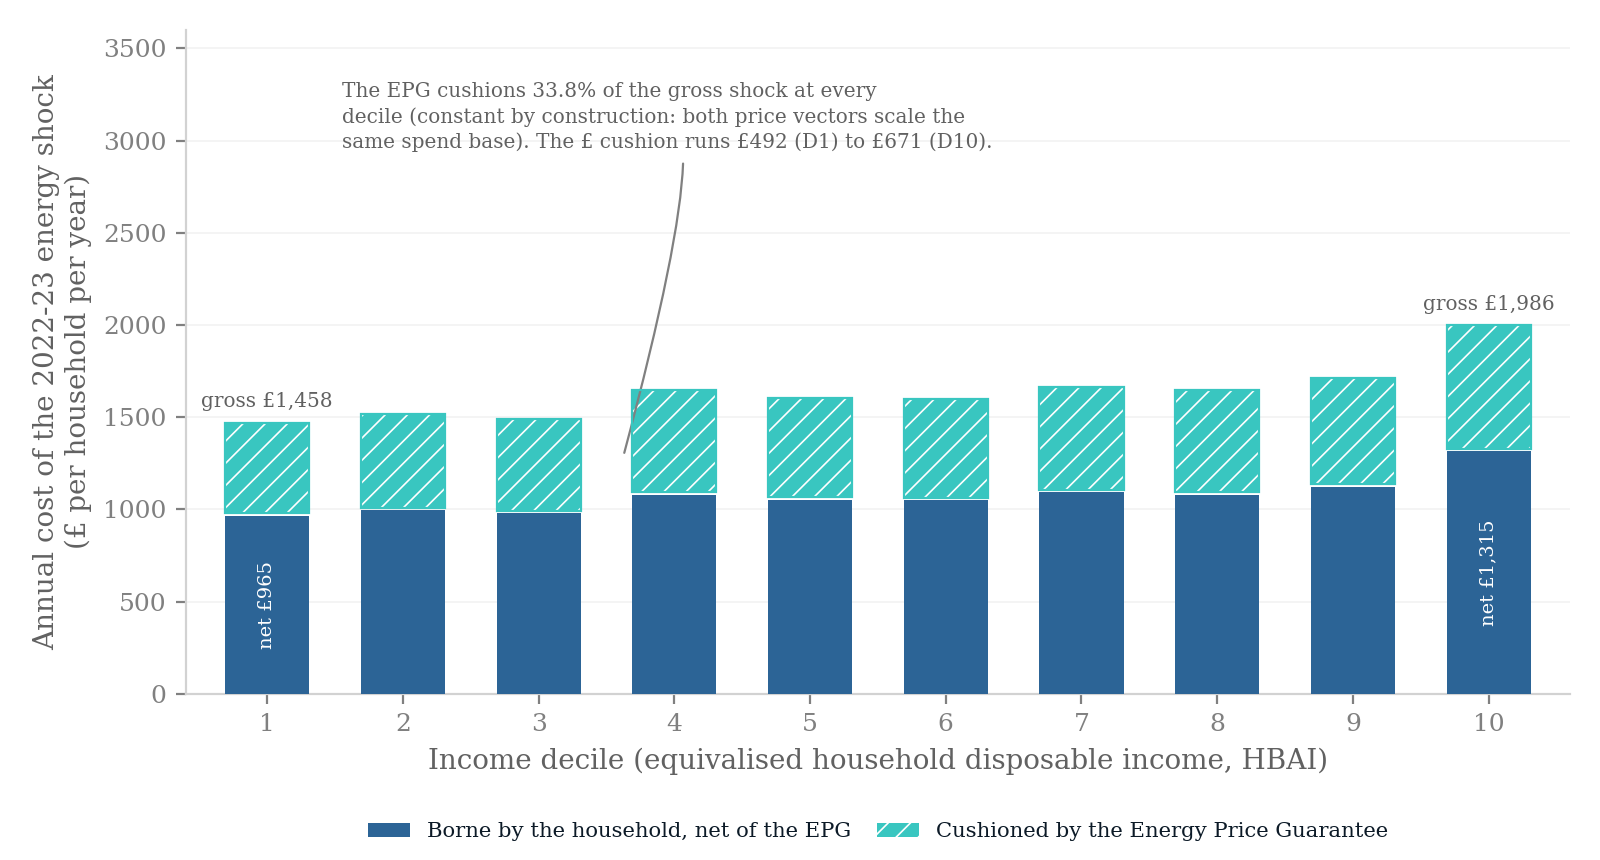
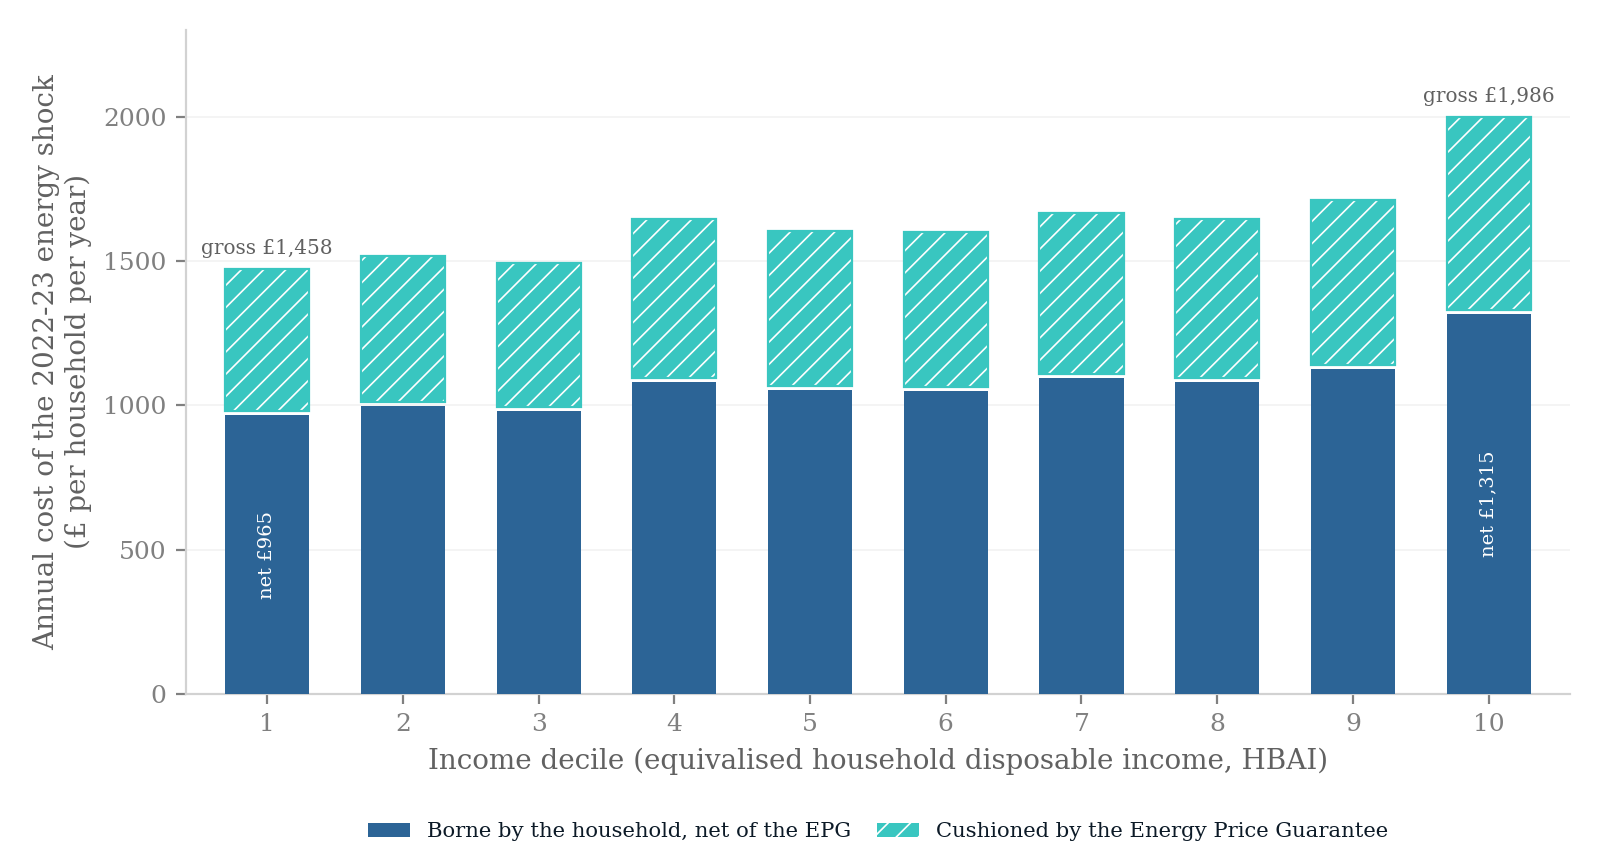
Restructure to six sections; academic figure conventions; energy-EPG figure repaired
- The paper now has six numbered sections: Introduction; Literature;
  Framework, episodes and method (episodes and the first-pass method
  demoted to subsections); First-pass results; The second stage;
  Discussion and extensions (the roadmap folded in as a closing
  subsection). The introduction's map rewritten to match.
- Energy-EPG figure (Figure 4): the floating three-line in-plot
  annotation and its curved connector removed; the constant-share
  explanation and the pound cushion range moved to the caption (the
  chart shows, the caption tells); y-axis tightened to the data.
- All figures remain on the shared PolicyEngine figstyle (verbatim
  from the sibling study): Roboto Serif, brand palette, frameless
  below-plot legends, 200 dpi.

Tests pass; PDF builds clean.

Claude-Session: https://claude.ai/code/session_0149AWVAWx8ogPKN3DA7FxTf

diff --git a/paper/sections/episodes.tex b/paper/sections/episodes.tex
@@ -1,4 +1,4 @@
-\section{Five episodes and their declared first stages}\label{sec:episodes}
+\subsection{The five episodes and their declared first stages}\label{sec:episodes}
 
 Each episode enters the analysis as a declared first stage: published
 estimates, imported with citations and attribution caveats, never
@@ -25,7 +25,7 @@ classifications by sign and channel, not measured coordinates.}
 
 \input{figures/generated_table_firststages.tex}
 
-\subsection{Episode 1: the TCA border (2021--23), negative, price-led}
+\subsubsection{Episode 1: the TCA border (2021--23), negative, price-led}
 
 The Trade and Cooperation Agreement took effect in January 2021,
 replacing single-market membership with a zero-tariff but
@@ -58,7 +58,7 @@ caveat: the price identification is relative (cross-product), so
 economy-wide effects may be missed, and the counterfactual is contested
 by critics of the OBR's trade assumptions.
 
-\subsection{Episode 2: the terms-of-trade shock (2022--23), negative, price-led, very large}
+\subsubsection{Episode 2: the terms-of-trade shock (2022--23), negative, price-led, very large}
 
 The 2022 energy and import-price surge was, in the Bank of England's
 description, a terms-of-trade shock of a size unseen since the
@@ -89,7 +89,7 @@ the Energy Price Guarantee is modelled as what it was, a discretionary
 rulebook intervention, so that automatic and discretionary cushioning
 can be separated.
 
-\subsection{Episode 3: the US tariffs (2025--26), negative, earnings-led}
+\subsubsection{Episode 3: the US tariffs (2025--26), negative, earnings-led}
 
 The spring 2025 US schedule (a 10 per cent baseline and 25 per cent
 rates on autos and on steel and aluminium, the latter from March) and its partial mitigation are the subject of the companion
@@ -106,7 +106,7 @@ direct consumer-price channel of this episode is set to zero; indirect
 channels (exchange rates, trade diversion, the Economic Prosperity
 Deal's own tariff changes) are outside the design.
 
-\subsection{Episode 4: the India agreement (2026--), positive, both channels}
+\subsubsection{Episode 4: the India agreement (2026--), positive, both channels}
 
 The UK--India Comprehensive Economic and Trade Agreement entered into
 force on 15 July 2026. Its first stage is declared from the
@@ -127,7 +127,7 @@ conditional design, is that the exercise computes what the
 government's own central estimates imply for households, which its
 impact assessment does not report and its regulatory scrutineer asked for \citep{rpc2025}.
 
-\subsection{Episode 5: CPTPP accession (2024--), the near-zero benchmark}
+\subsubsection{Episode 5: CPTPP accession (2024--), the near-zero benchmark}
 
 The UK's accession to the CPTPP (in force December 2024) carries a
 central government estimate of $+\pounds 2.0$ billion a year in the

diff --git a/paper/sections/intro.tex b/paper/sections/intro.tex
@@ -100,16 +100,15 @@ that, on an episode-specific attribution, the energy shock was met
 with energy-specific instruments and the food price rise with none.
 
 The paper proceeds in reading order. Section~\ref{sec:framework}
-defines the estimand and states what does and does not require
-identification; Section~\ref{sec:episodes} sets out the five episodes
-and their declared first stages; Section~\ref{sec:method} describes
-the public-data first pass. Section~\ref{sec:results} reports the
-first pass, then runs the two largest episodes, the energy shock and
-the TCA food price rise, through the statutory system on enhanced-FRS
-household records in PolicyEngine UK
-(Section~\ref{sec:results-secondstage}), where the
-automatic-versus-discretionary decomposition, the rulebook-vintage
-run, the within-decile dispersion and the demand and welfare
-aggregation are computed. Section~\ref{sec:roadmap} specifies the
-extension to the remaining episodes, and
-Section~\ref{sec:discussion} concludes.
+defines the estimand, states what does and does not require
+identification, sets out the five episodes with their declared first
+stages, and describes the public-data first pass.
+Section~\ref{sec:results} reports the first pass;
+Section~\ref{sec:results-secondstage} runs the two largest episodes,
+the energy shock and the TCA food price rise, through the statutory
+system on enhanced-FRS household records in PolicyEngine UK, where
+the automatic-versus-discretionary decomposition, the
+rulebook-vintage run, the within-decile dispersion and the demand and
+welfare aggregation are computed. Section~\ref{sec:discussion}
+concludes and specifies the extension to the remaining episodes
+(Section~\ref{sec:roadmap}).

diff --git a/uk_trade_shock_study/make_figures.py b/uk_trade_shock_study/make_figures.py
@@ -267,20 +267,12 @@ def fig_energy_epg(d: Data):
                     xy=(d.deciles[i], d.en_net_gbp[i] / 2), ha="center", va="center",
                     rotation=90, fontsize=7.0, color="white", zorder=5)
 
-    ax.annotate(
-        f"The EPG cushions {100 * d.cushion_share:.1f}% of the gross shock at every\n"
-        "decile (constant by construction: both price vectors scale the\n"
-        f"same spend base). The \u00a3 cushion runs \u00a3{d.en_cushion_gbp[0]:,.0f} (D1) to "
-        f"\u00a3{d.en_cushion_gbp[9]:,.0f} (D10).",
-        xy=(3.62, d.en_net_gbp[2] + d.en_cushion_gbp[2] * 0.6),
-        xytext=(1.55, 3320), fontsize=7.2, color=INK2, ha="left", va="top",
-        linespacing=1.4,
-        arrowprops=dict(arrowstyle="-", lw=0.8, color=MUTED,
-                        connectionstyle="angle3,angleA=0,angleB=75"),
-    )
+    # The constant-share explanation lives in the caption; no in-plot
+    # annotation or connector (academic convention: the chart shows, the
+    # caption tells).
 
     decile_ax(ax, "Annual cost of the 2022-23 energy shock\n(\u00a3 per household per year)")
-    ax.set_ylim(0, 3600)
+    ax.set_ylim(0, 2300)
     ax.set_xlim(0.4, 10.6)
     ax.legend(ncol=2, loc="upper center", bbox_to_anchor=(0.5, -0.165),
               fontsize=7.6, columnspacing=1.2)

diff --git a/paper/sections/results.tex b/paper/sections/results.tex
@@ -245,8 +245,11 @@ the cushioning rate falls with income.
 \caption{The 2022--23 energy shock by decile: the gross cap-level
 burden split into the part borne by households net of the Energy Price
 Guarantee and the part the Guarantee absorbed. Because the instrument
-capped a price, its cushioning share is constant across the
-distribution by construction.}
+capped a price, its cushioning share (\MsEnergyCushionShareFyPct\ per
+cent on the financial-year basis) is constant across the distribution
+by construction; the pound cushion runs from
+\pounds\MsEnergyCushionGbpDecOne\ in the bottom decile to about
+\pounds 670 in the top.}
 \label{fig:energy-epg}
 \end{figure}
 

diff --git a/paper/sections/roadmap.tex b/paper/sections/roadmap.tex
@@ -1,4 +1,4 @@
-\section{Extending the household stage}\label{sec:roadmap}
+\subsection{Extending the household stage}\label{sec:roadmap}
 
 Section~\ref{sec:results-secondstage} runs the energy and TCA food
 episodes through PolicyEngine UK on the enhanced Family Resources

diff --git a/paper/sections/discussion.tex b/paper/sections/discussion.tex
@@ -1,4 +1,4 @@
-\section{Discussion}\label{sec:discussion}
+\section{Discussion and extensions}\label{sec:discussion}
 
 The household stage reports three things the first pass could only
 frame. With nominal incomes fixed, the modelled cash benefits do not

diff --git a/paper/sections/method.tex b/paper/sections/method.tex
@@ -1,4 +1,4 @@
-\section{First-pass method}\label{sec:method}
+\subsection{First-pass method}\label{sec:method}
 
 This section describes the first pass, which runs the declared first
 stages against public aggregates for all five episodes; the energy

diff --git a/paper/main.tex b/paper/main.tex
@@ -72,8 +72,8 @@ dispersion.
 \input{sections/episodes}
 \input{sections/method}
 \input{sections/results}
-\input{sections/roadmap}
 \input{sections/discussion}
+\input{sections/roadmap}
 
 \section*{Data and code availability}
 

diff --git a/paper/sections/framework.tex b/paper/sections/framework.tex
@@ -1,4 +1,4 @@
-\section{Framework: one estimand, two channels, a moving rulebook}\label{sec:framework}
+\section{Framework, episodes and method}\label{sec:framework}
 
 \subsection{The estimand}
 
